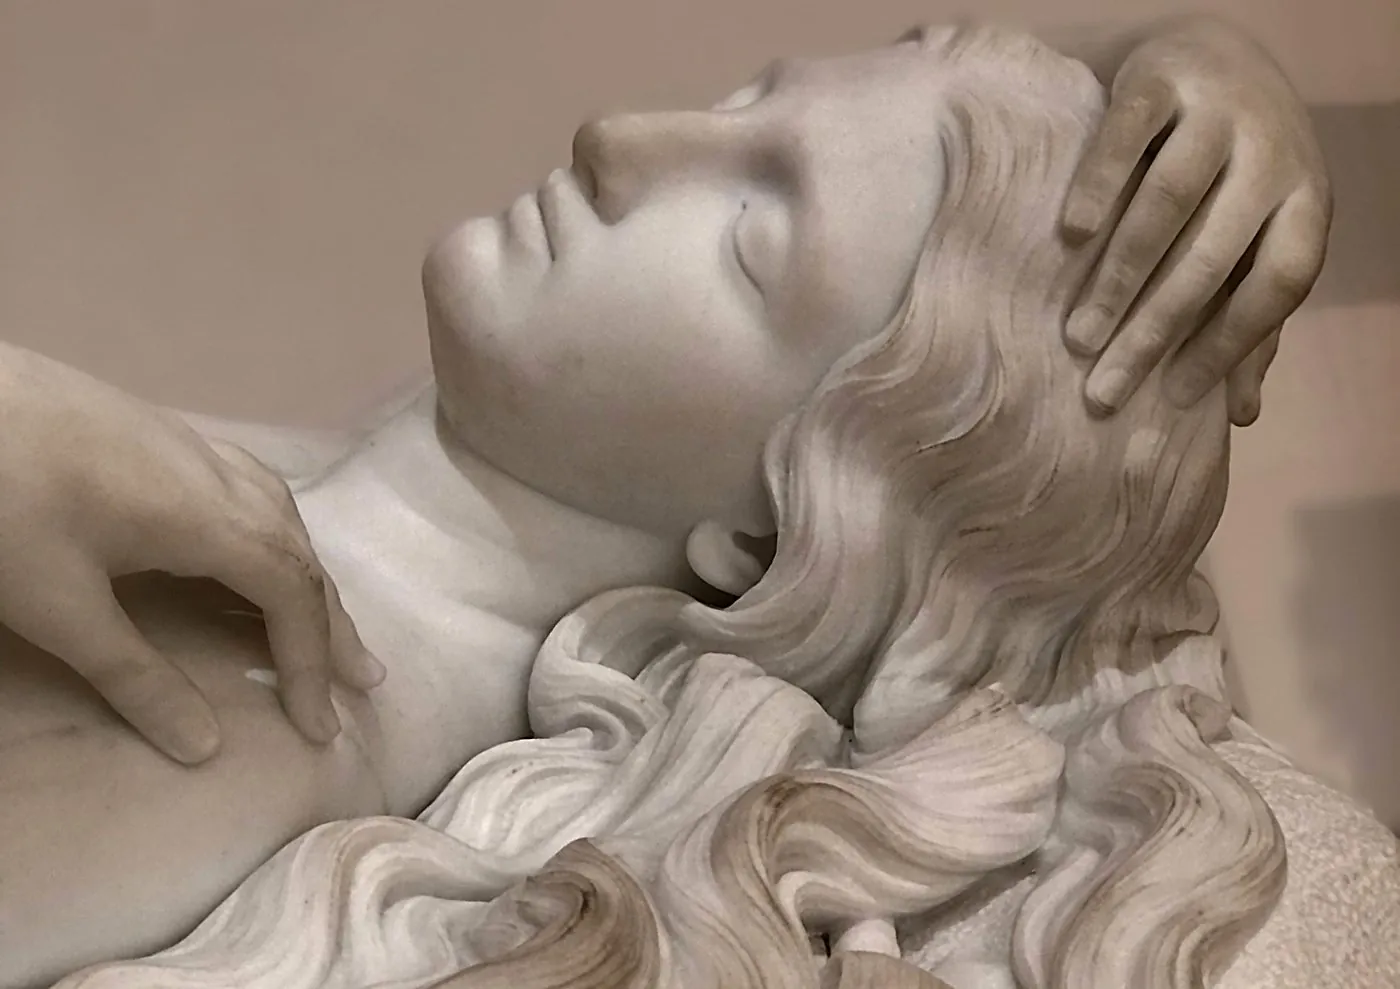
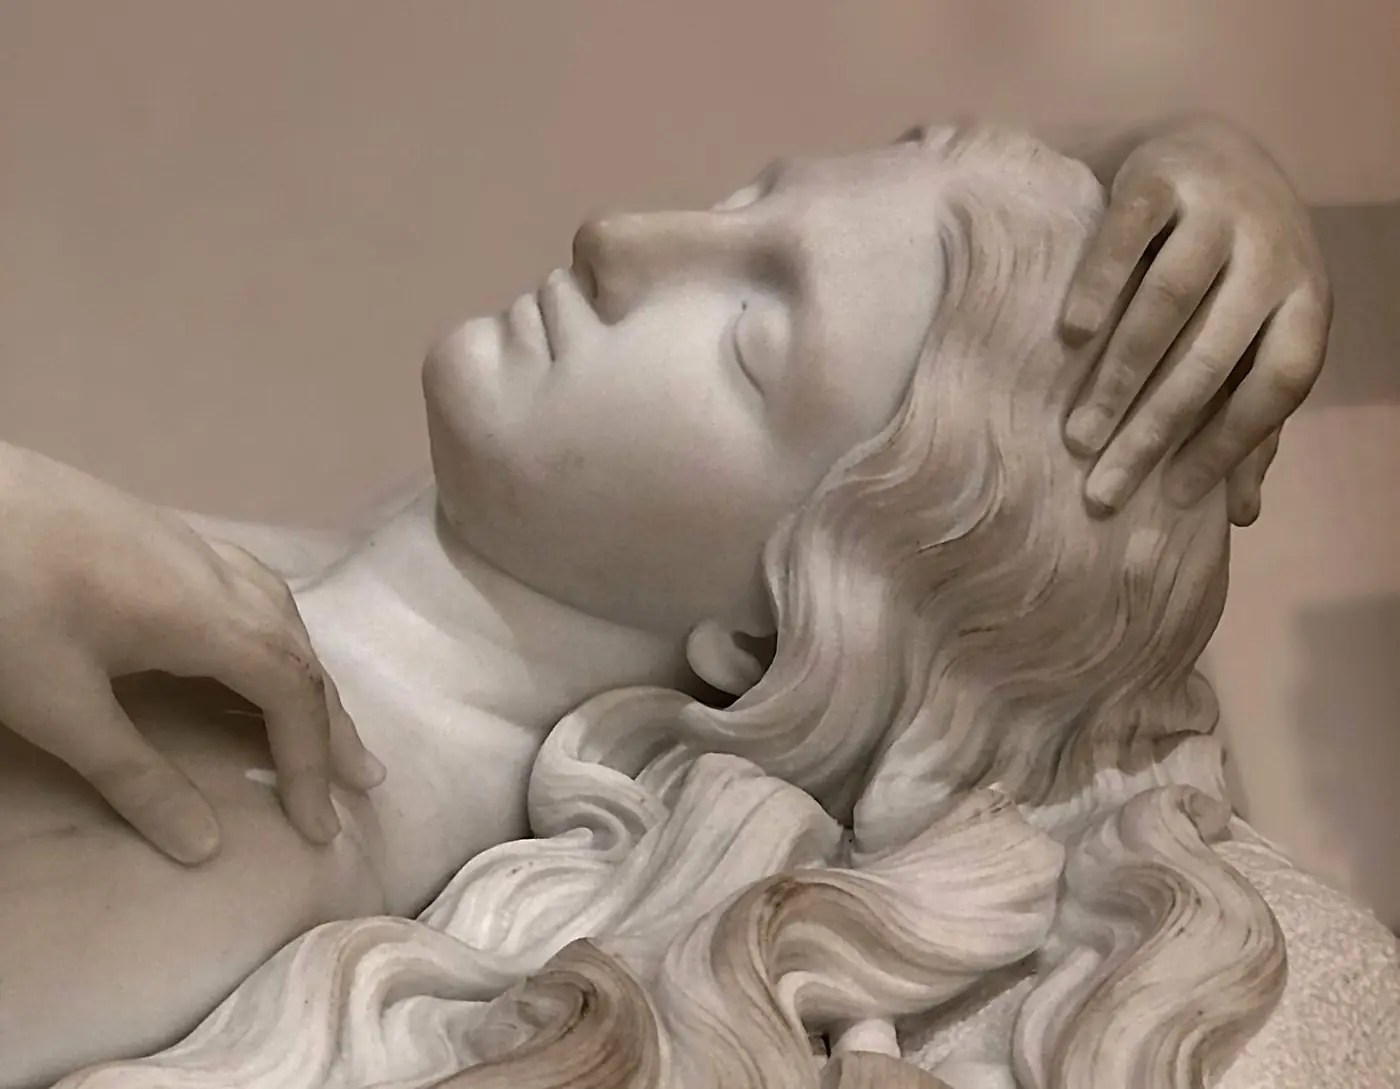
Barras y Yin Yoga: difuminado más corto y suave, más fondo arriba en Barras
Claude-Session: https://claude.ai/code/session_01WRVTwZwth3iERk5uy3NYbt

diff --git a/index.html b/index.html
@@ -653,7 +653,7 @@ html body #barras > h2,html body #yin-yoga > h2{margin:clamp(60px,13svh,140px) a
 .pr-estrella::after{background:linear-gradient(270deg,transparent,rgba(243,238,230,.45))}
 .pr-estrella svg{width:14px;height:14px;fill:#F3EEE6}
 html body #barras .pfoto,html body #yin-yoga .pfoto{width:100vw;max-width:none;margin:0 0 clamp(28px,4vw,44px) calc(50% - 50vw)}
-html body #barras .pfoto img,html body #yin-yoga .pfoto img{width:100%;height:auto;object-fit:initial;border-radius:0;box-shadow:none;-webkit-mask-image:linear-gradient(180deg,transparent 0%,#000 22%,#000 78%,transparent 100%);mask-image:linear-gradient(180deg,transparent 0%,#000 22%,#000 78%,transparent 100%)}
+html body #barras .pfoto img,html body #yin-yoga .pfoto img{width:100%;height:auto;object-fit:initial;border-radius:0;box-shadow:none;-webkit-mask-image:linear-gradient(180deg,rgba(0,0,0,0.000) 0.0%,rgba(0,0,0,0.043) 1.5%,rgba(0,0,0,0.156) 3.0%,rgba(0,0,0,0.316) 4.5%,rgba(0,0,0,0.500) 6.0%,rgba(0,0,0,0.684) 7.5%,rgba(0,0,0,0.844) 9.0%,rgba(0,0,0,0.957) 10.5%,rgba(0,0,0,1.000) 12.0%,rgba(0,0,0,1.000) 88.0%,rgba(0,0,0,0.957) 89.5%,rgba(0,0,0,0.844) 91.0%,rgba(0,0,0,0.684) 92.5%,rgba(0,0,0,0.500) 94.0%,rgba(0,0,0,0.316) 95.5%,rgba(0,0,0,0.156) 97.0%,rgba(0,0,0,0.043) 98.5%,rgba(0,0,0,0.000) 100.0%);mask-image:linear-gradient(180deg,rgba(0,0,0,0.000) 0.0%,rgba(0,0,0,0.043) 1.5%,rgba(0,0,0,0.156) 3.0%,rgba(0,0,0,0.316) 4.5%,rgba(0,0,0,0.500) 6.0%,rgba(0,0,0,0.684) 7.5%,rgba(0,0,0,0.844) 9.0%,rgba(0,0,0,0.957) 10.5%,rgba(0,0,0,1.000) 12.0%,rgba(0,0,0,1.000) 88.0%,rgba(0,0,0,0.957) 89.5%,rgba(0,0,0,0.844) 91.0%,rgba(0,0,0,0.684) 92.5%,rgba(0,0,0,0.500) 94.0%,rgba(0,0,0,0.316) 95.5%,rgba(0,0,0,0.156) 97.0%,rgba(0,0,0,0.043) 98.5%,rgba(0,0,0,0.000) 100.0%)}
 html body #barras .lead,html body #yin-yoga .lead{margin-left:auto;margin-right:auto}
 
 </style><style id="practica-textos">
@@ -714,7 +714,7 @@ html body #barras .lead,html body #yin-yoga .lead{margin-left:auto;margin-right:
 </section>
 
 <section id="barras">
-<h2>Barras de Access Consciousness</h2><div class="pr-estrella" aria-hidden="true"><svg viewBox="0 0 24 24" aria-hidden="true"><path d="M12 1l1.9 8.1L22 12l-8.1 1.9L12 23l-1.9-9.1L2 12l8.1-2.9z"/></svg></div><div class="pr-txt pr-txt-arriba"><p class="pr-ph">Texto encima de la foto</p></div><figure class="pfoto"><img loading="lazy" decoding="async" src="img/barras.webp" alt="Escultura de mármol: rostro de mujer recostada con el cabello ondulado" width="1400" height="989" decoding="async"></figure><div class="pr-txt pr-txt-abajo"><p class="pr-ph">Texto debajo de la foto</p></div>
+<h2>Barras de Access Consciousness</h2><div class="pr-estrella" aria-hidden="true"><svg viewBox="0 0 24 24" aria-hidden="true"><path d="M12 1l1.9 8.1L22 12l-8.1 1.9L12 23l-1.9-9.1L2 12l8.1-2.9z"/></svg></div><div class="pr-txt pr-txt-arriba"><p class="pr-ph">Texto encima de la foto</p></div><figure class="pfoto"><img loading="lazy" decoding="async" src="img/barras.webp" alt="Escultura de mármol: rostro de mujer recostada con el cabello ondulado" width="1400" height="1089" decoding="async"></figure><div class="pr-txt pr-txt-abajo"><p class="pr-ph">Texto debajo de la foto</p></div>
 <section class="tst" data-tst="barras" aria-label="Testimonios"><div class="tst-orbe"><div class="tst-txt" aria-live="polite"><blockquote class="tst-q"></blockquote><p class="tst-who"></p></div></div></section> <div class="ct-fin pg-fin"><div class="ct-linea" aria-hidden="true"></div><div class="pglogo"><a href="#inicio" aria-label="Aflora Consciencia, volver al inicio"><svg aria-hidden="true"><use href="#lgsym"/></svg></a></div></div>
 </section>
 
